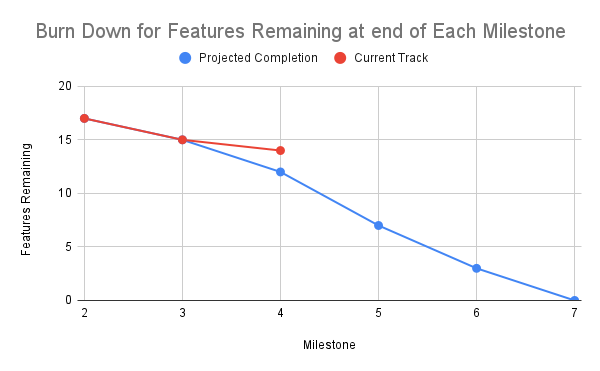
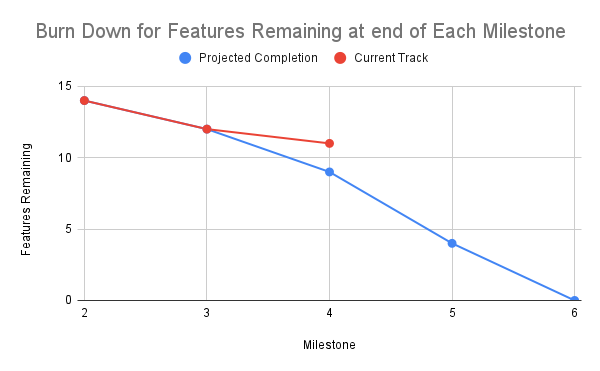
Update to M4 Req

diff --git a/Documents/Milestone-4/Requirements/BurnDownTables.md b/Documents/Milestone-4/Requirements/BurnDownTables.md
@@ -1,28 +1,25 @@
-| Sprint | Features remaining at end of sprint | Features still remaining |
-|--------|-------------------------------------|--------------------------|
-| 1      | 19                                  | 19                       |
-| 2      | 17                                  | 17                       |
-| 3      | 15                                  | 15                       |
-| 4      | 12                                  | 14                       |
-| 5      | 10                                  |                          |
-| 6      | 7                                   |                          |
-| 7      | 6                                   |                          |
-| 8      | 3                                   |                          |
-| 9      | 0                                   |                          |
+| Sprint | Projected Features | Current Track |
+|--------|--------------------|---------------|
+| 1      | 16                 | 16            |
+| 2      | 14                 | 14            |
+| 3      | 12                 | 12            |
+| 4      | 9                  | 11            |
+| 5      | 7                  |               |
+| 6      | 4                  |               |
+| 7      | 3                  |               |
+| 8      | 0                  |               |
+| 9      | 0                  |               |
 
 Graph view [here](Sprint_Burn_Down.png)
 
 
-| Milestone | Features remaining at end of Milestone | Features Left |
-|-----------|-----------------------------------------|--------------|
-| 2         | 17                                      | 17           |
-| 3         | 15                                      | 15           |
-| 4         | 12                                      | 14           |
-| 5         | 7                                       |              |
-| 6         | 3                                       |              |
-| 7         | 0                                       |              |
-| 8         | 3                                       |              |
-| 9         | 0                                       |              |
+| Milestone | Projected Features | Current Track |
+|-----------|--------------------|---------------|
+| 2         | 14                 | 14            |
+| 3         | 12                 | 12            |
+| 4         | 9                  | 11            |
+| 5         | 4                  |               |
+| 6         | 0                  |               |
 
 
 Graph view [here](Milestone_Burn_Down.png)

diff --git a/Documents/Milestone-4/Requirements/SprintPlan.md b/Documents/Milestone-4/Requirements/SprintPlan.md
@@ -1,5 +1,5 @@
-# Current Velocity: 0.375 Features per Hour
-# Estimated Velocity: 0.377 Features per Hour
+# Current Velocity: 0.429 Features per Hour
+# Estimated Velocity: 0.369 Features per Hour
 
 # Milestone 2: 13 Hours Expected
 ## Sprint 1: 
@@ -28,13 +28,13 @@ As a user, I want to search for products by keyword.
 
         Time Expected: 4 Hours
 
-        Time Taken: 
+        Time Taken: 5 Hours
         
 As a shopper, I want to browse products by category.
 
         Time Expected: 4 Hours
 
-        Time Taken: 
+        Time Taken: 0.5 Hours
 
 # Milestone 4: 6 Hours Expected
 ## Sprint 4: 
@@ -42,7 +42,7 @@ As a shopper, I want to proceed to checkout from the cart.
 
         Time Expected: 2 Hours
 
-        Time Taken:
+        Time Taken: 0.5 Hours
     
 As a shopper, I want to select my preferred payment method.
 
@@ -116,22 +116,4 @@ As a user, I want to receive an email confirmation after placing an order.
 
         Time Taken:
 
-# Milestone 7: 7 Hours Expected
-## Sprint 9:
-As a shopper, I want to add products to my wishlist.
-
-        Time Expected: 4 Hours
-
-        Time Taken:
-
-As a user, I want to view and manage the items in my wishlist.
-
-        Time Expected: 1 Hour
-
-        Time Taken:
-
-As a shopper, I want to move items from my wishlist to my cart.
-
-        Time Expected: 2 Hours
-
-        Time Taken:
+# Milestone 7:

diff --git a/Documents/Milestone-4/Requirements/ProductBacklog.md b/Documents/Milestone-4/Requirements/ProductBacklog.md
@@ -19,6 +19,3 @@
 15. As a buyer, I want to track the status of my orders.
 16. As a user, I want to view my order history.
 17. As a user, I want to receive an email confirmation after placing an order.
-18. As a shopper, I want to add products to my wishlist.
-19. As a user, I want to view and manage the items in my wishlist.
-20. As a shopper, I want to move items from my wishlist to my cart.
